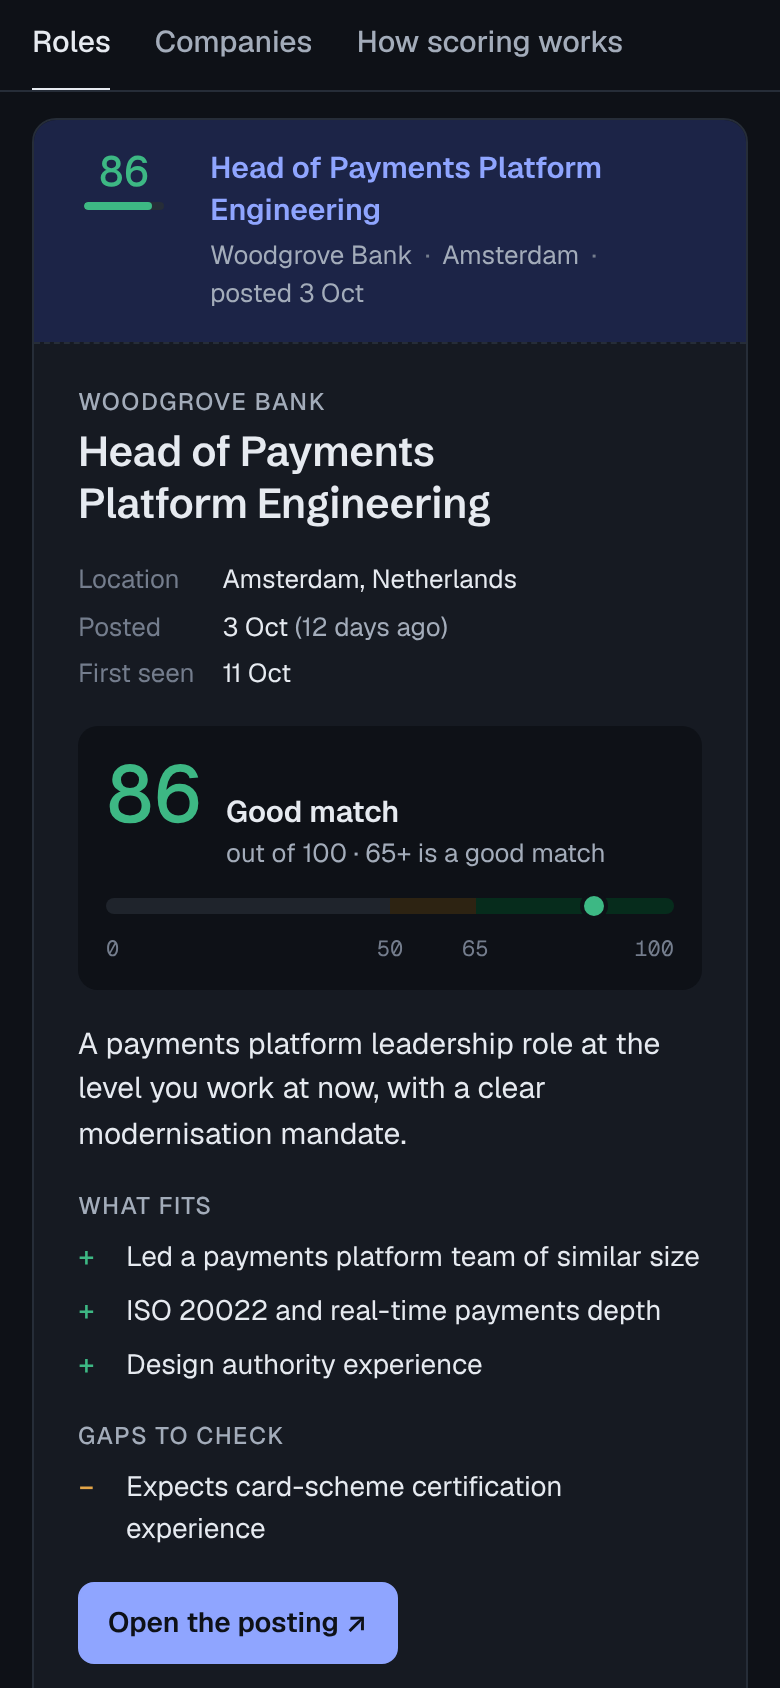
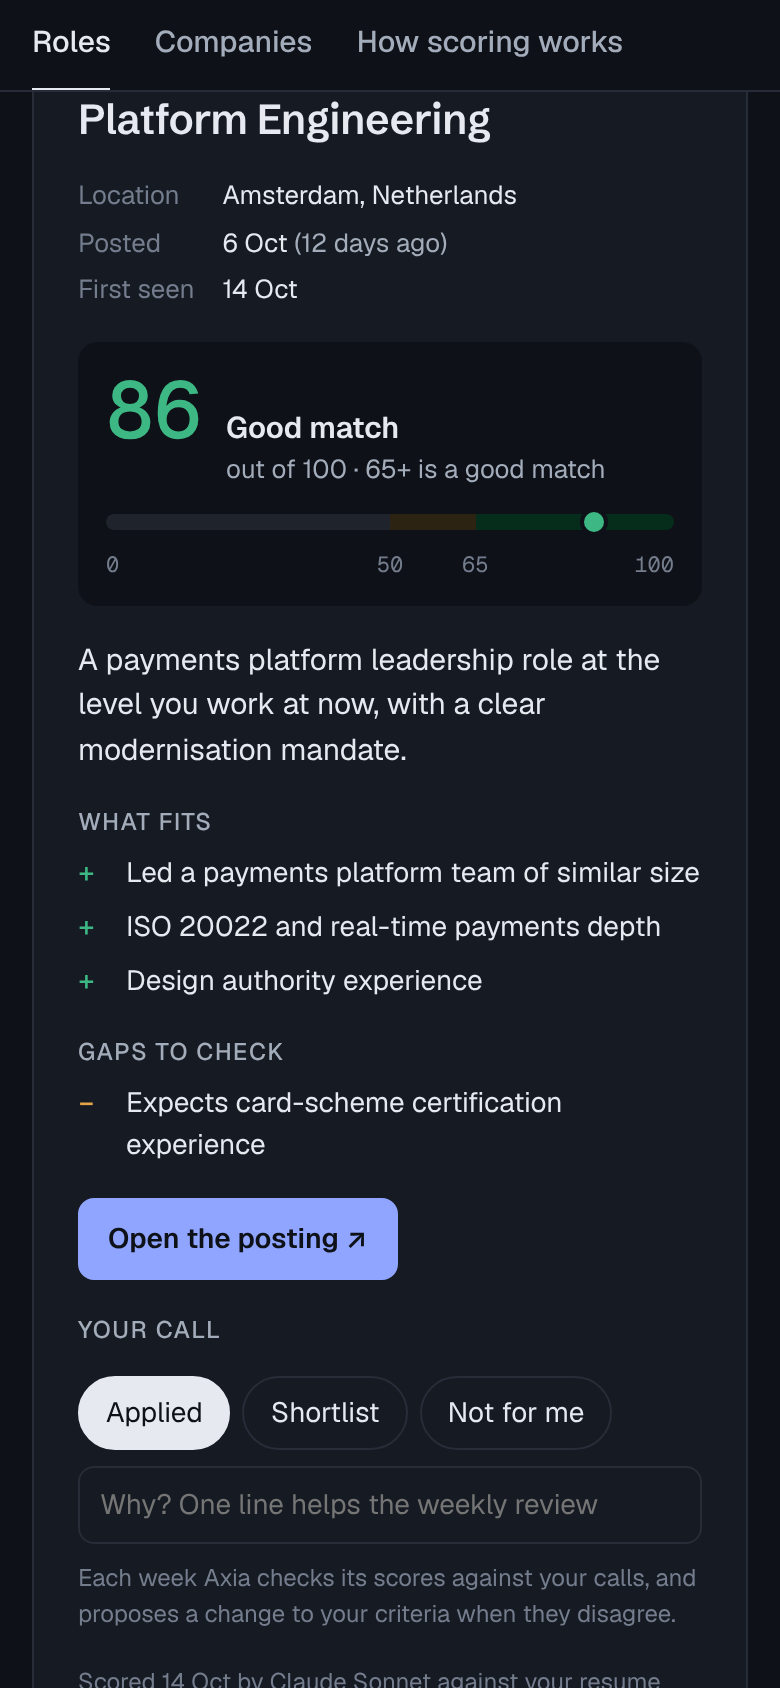
README images show 1.2.0: your calls on the dashboard, and the weekly loop
- Screenshots retaken from the demo: the desktop list shows Applied and
  Shortlist pills and the Not for me chip; the phone shot ends on the
  role's "Your call" buttons.
- The how-it-works diagram is redrawn with data/feedback.json, the second
  look and Left out in the Filter step, the buttons on the dashboard, and
  the weekly review loop. Its source is now in the repository
  (docs/images/how-it-works.html), drawn with the dashboard's own fonts
  and colours, so the next change is an edit rather than a redraw.

Claude-Session: https://claude.ai/code/session_01RhjfWJjFsMNoDRdn2zzbYZ

diff --git a/docs/images/how-it-works.html b/docs/images/how-it-works.html
@@ -1,0 +1,117 @@
+<!doctype html>
+<!--
+  Source of how-it-works-light.png and how-it-works-dark.png (README → How it works).
+  To redraw: open this page in Chromium at 1050 px wide with device scale factor 2, once in light
+  and once in dark color scheme, and screenshot the <main> element. Fonts come from the dashboard.
+-->
+<html lang="en">
+<head>
+<meta charset="utf-8">
+<meta name="viewport" content="width=1050">
+<title>How Axia works</title>
+<style>
+@font-face { font-family: 'Geist'; font-weight: 400 600; src: url(../../src/dashboard/fonts/geist-latin.woff2) format('woff2'); }
+@font-face { font-family: 'Geist Mono'; font-weight: 400 500; src: url(../../src/dashboard/fonts/geist-mono-latin.woff2) format('woff2'); }
+:root {
+  --bg: #F3F5F8; --surface: #FFFFFF; --ink: #131821; --muted: #566070; --faint: #808999; --line: #DFE4EB;
+  --accent: #2346C8; --accent-soft: #E6EBFC; --good: #0F7A55; --chip: #F3F5F8;
+}
+@media (prefers-color-scheme: dark) {
+  :root {
+    --bg: #0E1117; --surface: #161A22; --ink: #E6EAF0; --muted: #A3ACBA; --faint: #747D8D; --line: #262D38;
+    --accent: #8FA5FF; --accent-soft: #1C2447; --good: #3DB884; --chip: #1D232D;
+  }
+}
+* { box-sizing: border-box; }
+body { margin: 0; background: var(--bg); color: var(--ink); font: 400 11px/1.45 "Geist", system-ui, sans-serif; }
+main { width: 1050px; padding: 30px 32px 30px; display: grid; grid-template-columns: 250px 22px 1fr 22px 236px; align-items: center; row-gap: 14px; }
+.eyebrow { font-size: 9.5px; letter-spacing: 0.09em; text-transform: uppercase; color: var(--muted); font-weight: 600; margin: 0 0 8px; display: flex; justify-content: space-between; }
+.eyebrow code { text-transform: none; letter-spacing: 0; font-weight: 400; color: var(--faint); }
+.card { background: var(--surface); border: 1px solid var(--line); border-radius: 10px; }
+code, .mono { font-family: "Geist Mono", ui-monospace, monospace; }
+.arrow { color: var(--faint); font-size: 16px; text-align: center; }
+
+/* your repository */
+.files { padding: 14px 13px; }
+.files dl { margin: 0; display: grid; grid-template-columns: 112px 1fr; column-gap: 8px; }
+.files dt, .files dd { margin: 0; padding: 6px 0; border-bottom: 1px dashed var(--line); }
+.files dt { color: var(--accent); font-family: "Geist Mono", monospace; font-size: 10px; padding-top: 7px; }
+.files dd { color: var(--ink); }
+.files dl > :nth-last-child(-n+2) { border-bottom: 0; }
+.files .sub { font-size: 8.5px; letter-spacing: 0.09em; text-transform: uppercase; color: var(--muted); font-weight: 600; margin: 10px 0 2px; }
+
+/* the run */
+.steps { display: grid; gap: 7px; }
+.step { padding: 11px 14px; display: grid; grid-template-columns: 22px 1fr; column-gap: 12px; }
+.step .n { width: 22px; height: 22px; border-radius: 50%; background: var(--accent-soft); color: var(--accent); font-weight: 600; display: grid; place-items: center; font-size: 10.5px; }
+.step h3 { margin: 1px 0 2px; font-size: 12.5px; font-weight: 600; }
+.step p { margin: 0; color: var(--muted); }
+.chips { display: flex; flex-wrap: wrap; gap: 4px; margin-top: 6px; }
+.chips span { font-family: "Geist Mono", monospace; font-size: 9px; padding: 2px 6px; border-radius: 5px; border: 1px solid var(--line); background: var(--chip); color: var(--muted); }
+.chips.ai span { border-color: transparent; background: var(--accent-soft); color: var(--accent); }
+
+/* you */
+.you { display: grid; gap: 10px; }
+.out { padding: 13px 14px; }
+.out h3 { margin: 0 0 6px; font-size: 13px; font-weight: 600; display: flex; align-items: center; gap: 8px; }
+.out h3 img { width: 18px; height: 18px; }
+.out ul { margin: 0; padding: 0; list-style: none; display: grid; gap: 4px; }
+.out li { display: grid; grid-template-columns: 10px 1fr; gap: 6px; color: var(--muted); }
+.out li::before { content: ""; width: 5px; height: 5px; border-radius: 50%; background: var(--good); margin-top: 6px; }
+
+/* the loop */
+.loop { grid-column: 1 / -1; padding: 11px 16px; display: grid; grid-template-columns: auto 1fr; gap: 14px; align-items: center; border-style: dashed; }
+.loop .badge { font-size: 9.5px; letter-spacing: 0.09em; text-transform: uppercase; color: var(--accent); font-weight: 600; white-space: nowrap; display: flex; align-items: center; gap: 6px; }
+.loop .badge b { font-size: 15px; letter-spacing: 0; }
+.loop p { margin: 0; color: var(--muted); }
+.loop .to { color: var(--faint); margin: 0 7px; }
+.loop strong { color: var(--ink); font-weight: 600; }
+</style>
+</head>
+<body>
+<main>
+  <section>
+    <p class="eyebrow">Your private repository</p>
+    <div class="card files">
+      <dl>
+        <dt>companies.yml</dt><dd>the employers you'd join</dd>
+        <dt>cv.md</dt><dd>your resume</dd>
+        <dt>criteria.md</dt><dd>how you judge a role, in your words</dd>
+        <dt>settings.yml</dt><dd>titles, places, thresholds, model</dd>
+      </dl>
+      <p class="sub">Saved back after every run</p>
+      <dl>
+        <dt>data/jobs.json</dt><dd>memory: every role and its score</dd>
+        <dt>data/feedback.json</dt><dd>your calls, with each posting</dd>
+      </dl>
+    </div>
+  </section>
+  <div class="arrow">→</div>
+  <section>
+    <p class="eyebrow">Every morning, in GitHub Actions <code>khubli/axia@v1</code></p>
+    <div class="steps">
+      <div class="card step"><span class="n">1</span><div><h3>Read</h3><p>Each employer's own careers site, through the public feeds its pages use.</p>
+        <div class="chips"><span>Workday</span><span>Greenhouse</span><span>Lever</span><span>Ashby</span><span>SmartRecruiters</span><span>Oracle</span></div></div></div>
+      <div class="card step"><span class="n">2</span><div><h3>Filter</h3><p>Your titles and places, free. Titles your words miss get a second look from the model, which can only let roles in. What's left out is listed for spot checks.</p></div></div>
+      <div class="card step"><span class="n">3</span><div><h3>Score</h3><p>The full posting against your resume and criteria: 0–100, what fits, the gaps.</p>
+        <div class="chips ai"><span>Claude subscription</span><span>Anthropic API</span><span>OpenRouter</span><span>OpenAI-compatible</span></div></div></div>
+      <div class="card step"><span class="n">4</span><div><h3>Remember</h3><p>New, open, closed, reopened. Each role scored once and announced once.</p></div></div>
+    </div>
+  </section>
+  <div class="arrow">→</div>
+  <section>
+    <p class="eyebrow">You</p>
+    <div class="you">
+      <div class="card out"><h3><img src="../../src/dashboard/icon.svg" alt="">Your dashboard</h3>
+        <ul><li>On your domain, behind your Cloudflare login</li><li>Login checked after every publish; no login, no data</li><li>Mark roles Applied, Shortlist or Not for me</li><li>Installs as an app; works offline</li></ul></div>
+      <div class="card out"><h3>Telegram or email</h3>
+        <ul><li>Only roles that newly clear your bar</li><li>Problems that last, once</li><li>A silent weekly check-in</li></ul></div>
+    </div>
+  </section>
+  <div class="card loop">
+    <span class="badge"><b>↺</b> Once a week</span>
+    <p>Your calls the scores disagree with<span class="to">→</span>the model proposes an edit to <strong class="mono">criteria.md</strong><span class="to">→</span>your judged roles are scored with and without it<span class="to">→</span><strong>a pull request</strong>, only if it agrees with you more often</p>
+  </div>
+</main>
+</body>
+</html>

diff --git a/README.md b/README.md
@@ -10,7 +10,7 @@ You list the employers you want to work for. Every morning Axia reads their own 
 
 **[Live demo](https://khubli.github.io/axia/)** (made-up companies, roles and candidate) · **[Set it up](docs/setup.md)** in about 30 minutes
 
-<img src="docs/screenshots/desktop.png" alt="The Axia dashboard: a one-line verdict, where the AI scores fall, filters, and a ranked list with the reasons for each score" width="100%">
+<img src="docs/screenshots/desktop.png" alt="The Axia dashboard: a one-line verdict, where the AI scores fall, filters, and a ranked list with the reasons for each score and your calls on roles (Applied, Shortlist)" width="100%">
 
 ## Why Axia
 
@@ -32,13 +32,13 @@ Most job-search tools start from a job board and a keyword search, then give you
 
 **Who it's for:** people with a shortlist of employers and a clear sense of the level and kind of role they want, who would rather hear about the right opening the day it appears than check a dozen careers sites.
 
-<p align="center"><img src="docs/screenshots/phone-dark.png" alt="A role on a phone, in dark mode: score, what fits, gaps to check and a link to the posting" width="300"></p>
+<p align="center"><img src="docs/screenshots/phone-dark.png" alt="A role on a phone, in dark mode: score, what fits, gaps to check, a link to the posting, and your call: Applied, Shortlist or Not for me" width="300"></p>
 
 ## How it works
 
 <picture>
   <source media="(prefers-color-scheme: dark)" srcset="docs/images/how-it-works-dark.png">
-  <img src="docs/images/how-it-works-light.png" alt="Your private repository (companies, resume, criteria, settings) feeds a daily GitHub Actions run of Axia: read each employer's careers site, filter by your titles and places, score with Claude, OpenRouter or another OpenAI-compatible model, and remember every role. Results go to your private dashboard and, for new good matches, to Telegram or email." width="100%">
+  <img src="docs/images/how-it-works-light.png" alt="Your private repository (companies, resume, criteria, settings) feeds a daily GitHub Actions run of Axia: read each employer's careers site, filter by your titles and places, score with Claude, OpenRouter or another OpenAI-compatible model, and remember every role. Results go to your private dashboard and, for new good matches, to Telegram or email. You mark roles Applied, Shortlist or Not for me on the dashboard; once a week, when the scores disagree with your calls, the model proposes a criteria.md edit, your judged roles are scored with and without it, and it becomes a pull request only if it agrees with you more often." width="100%">
 </picture>
 
 Details, step by step: [docs/how-it-works.md](docs/how-it-works.md).
